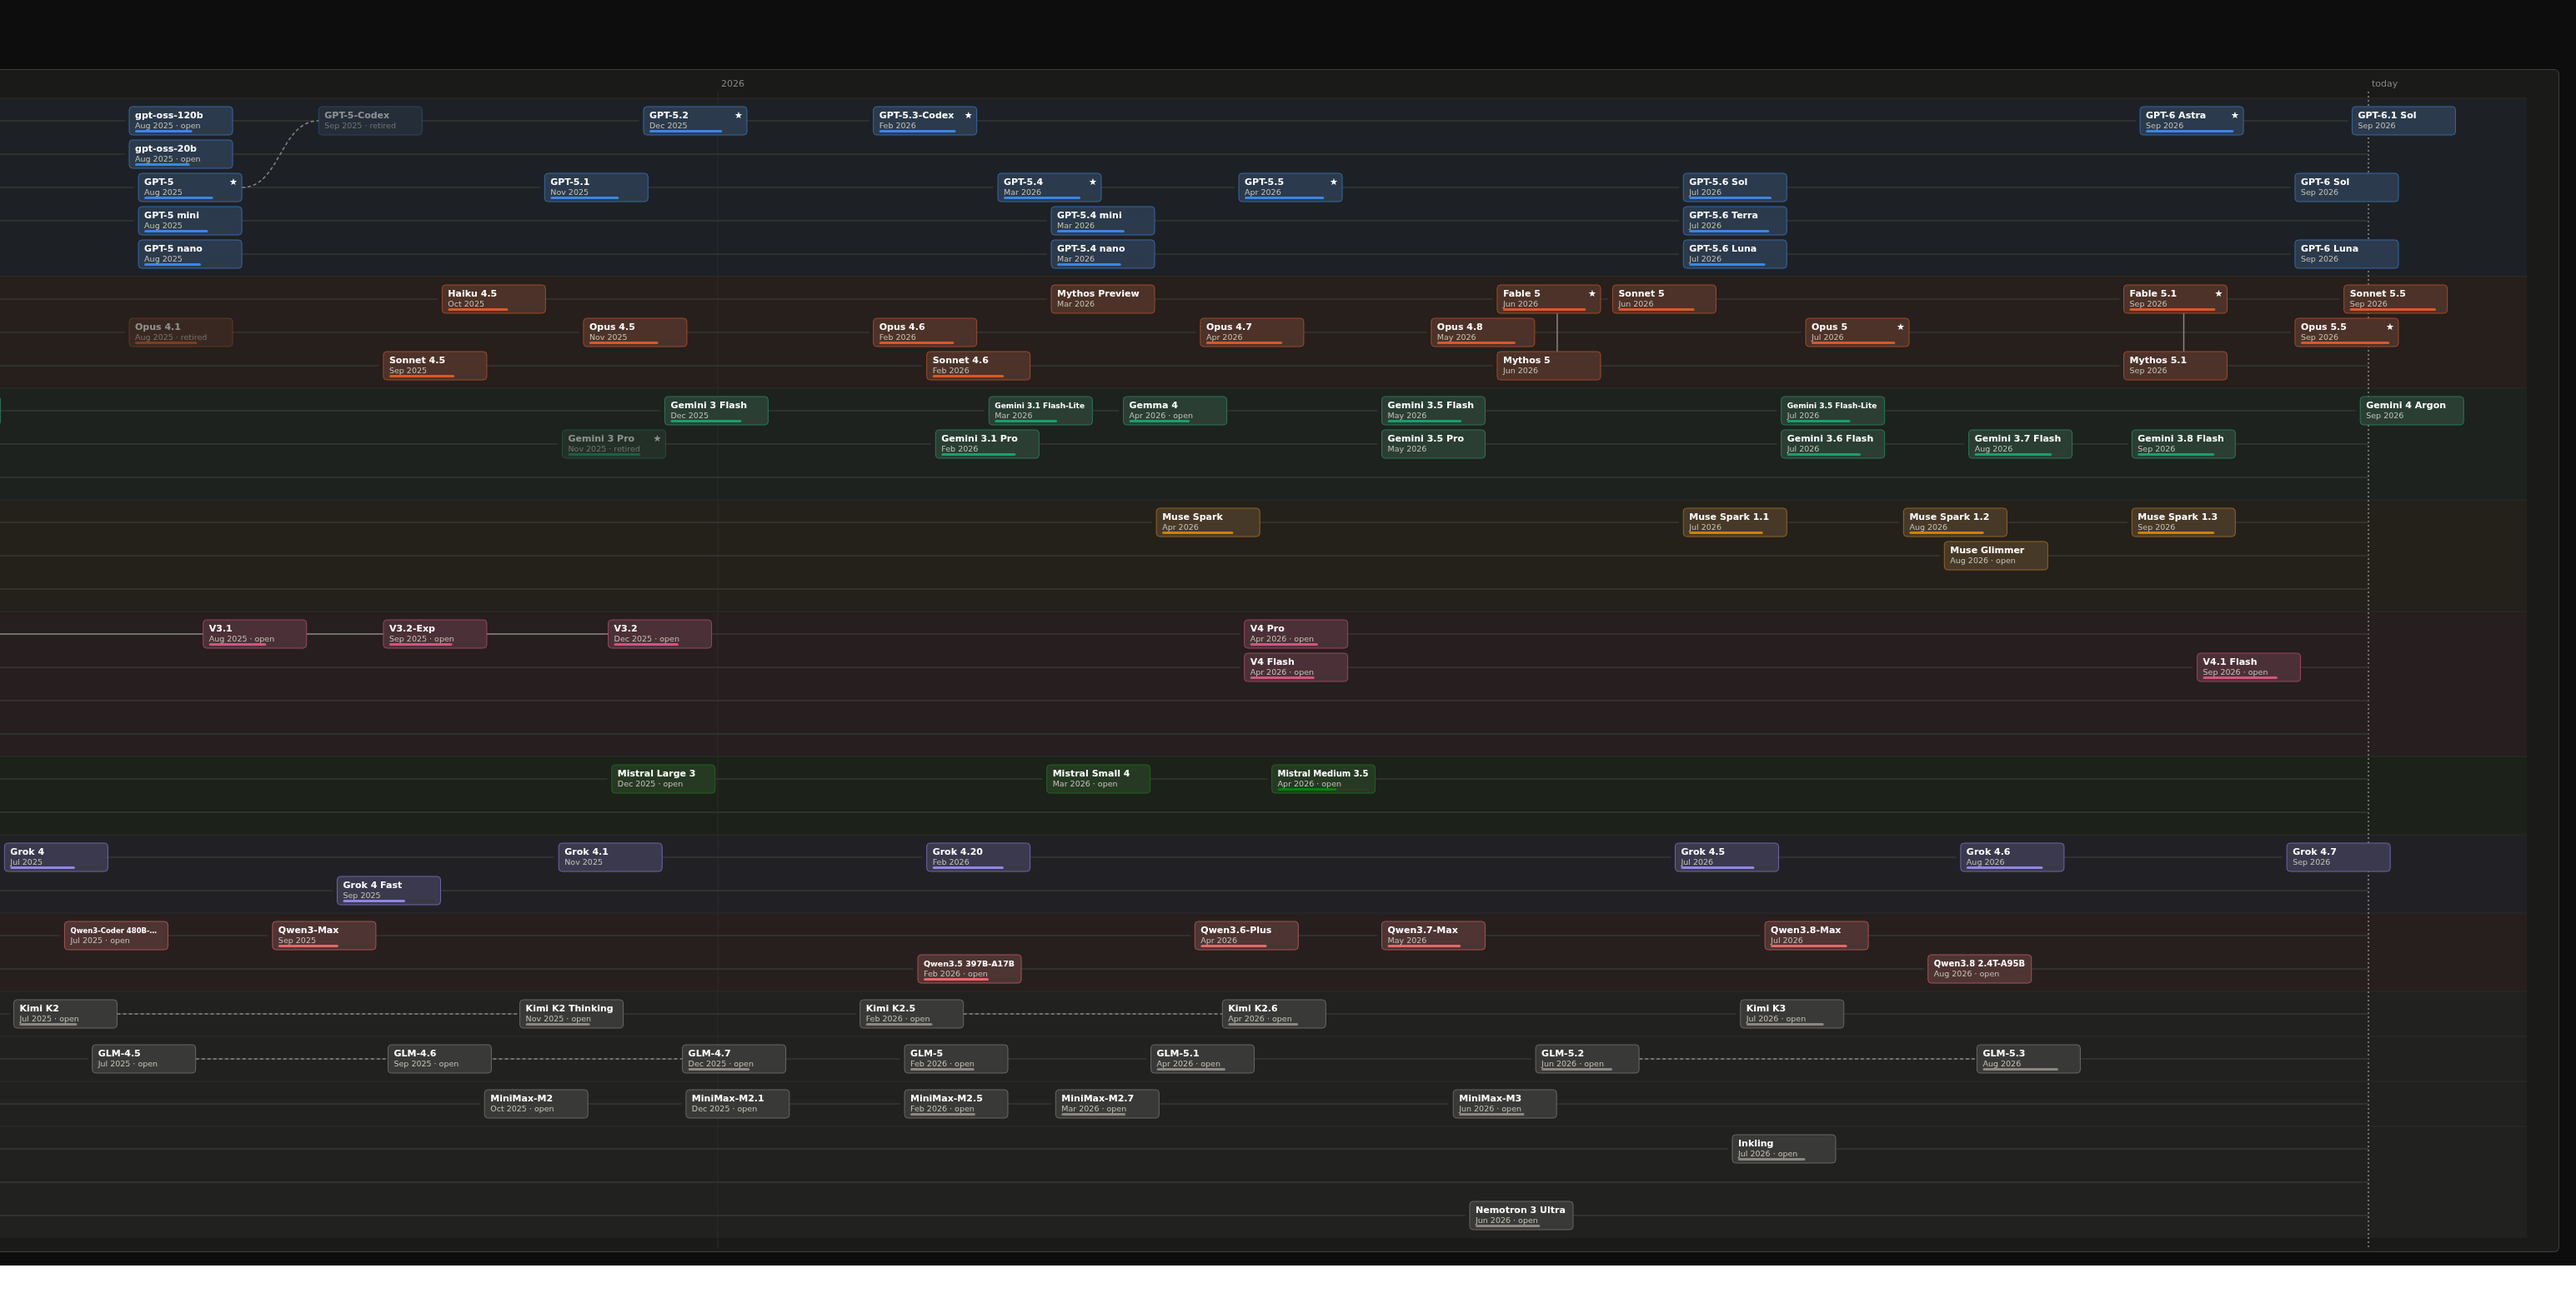
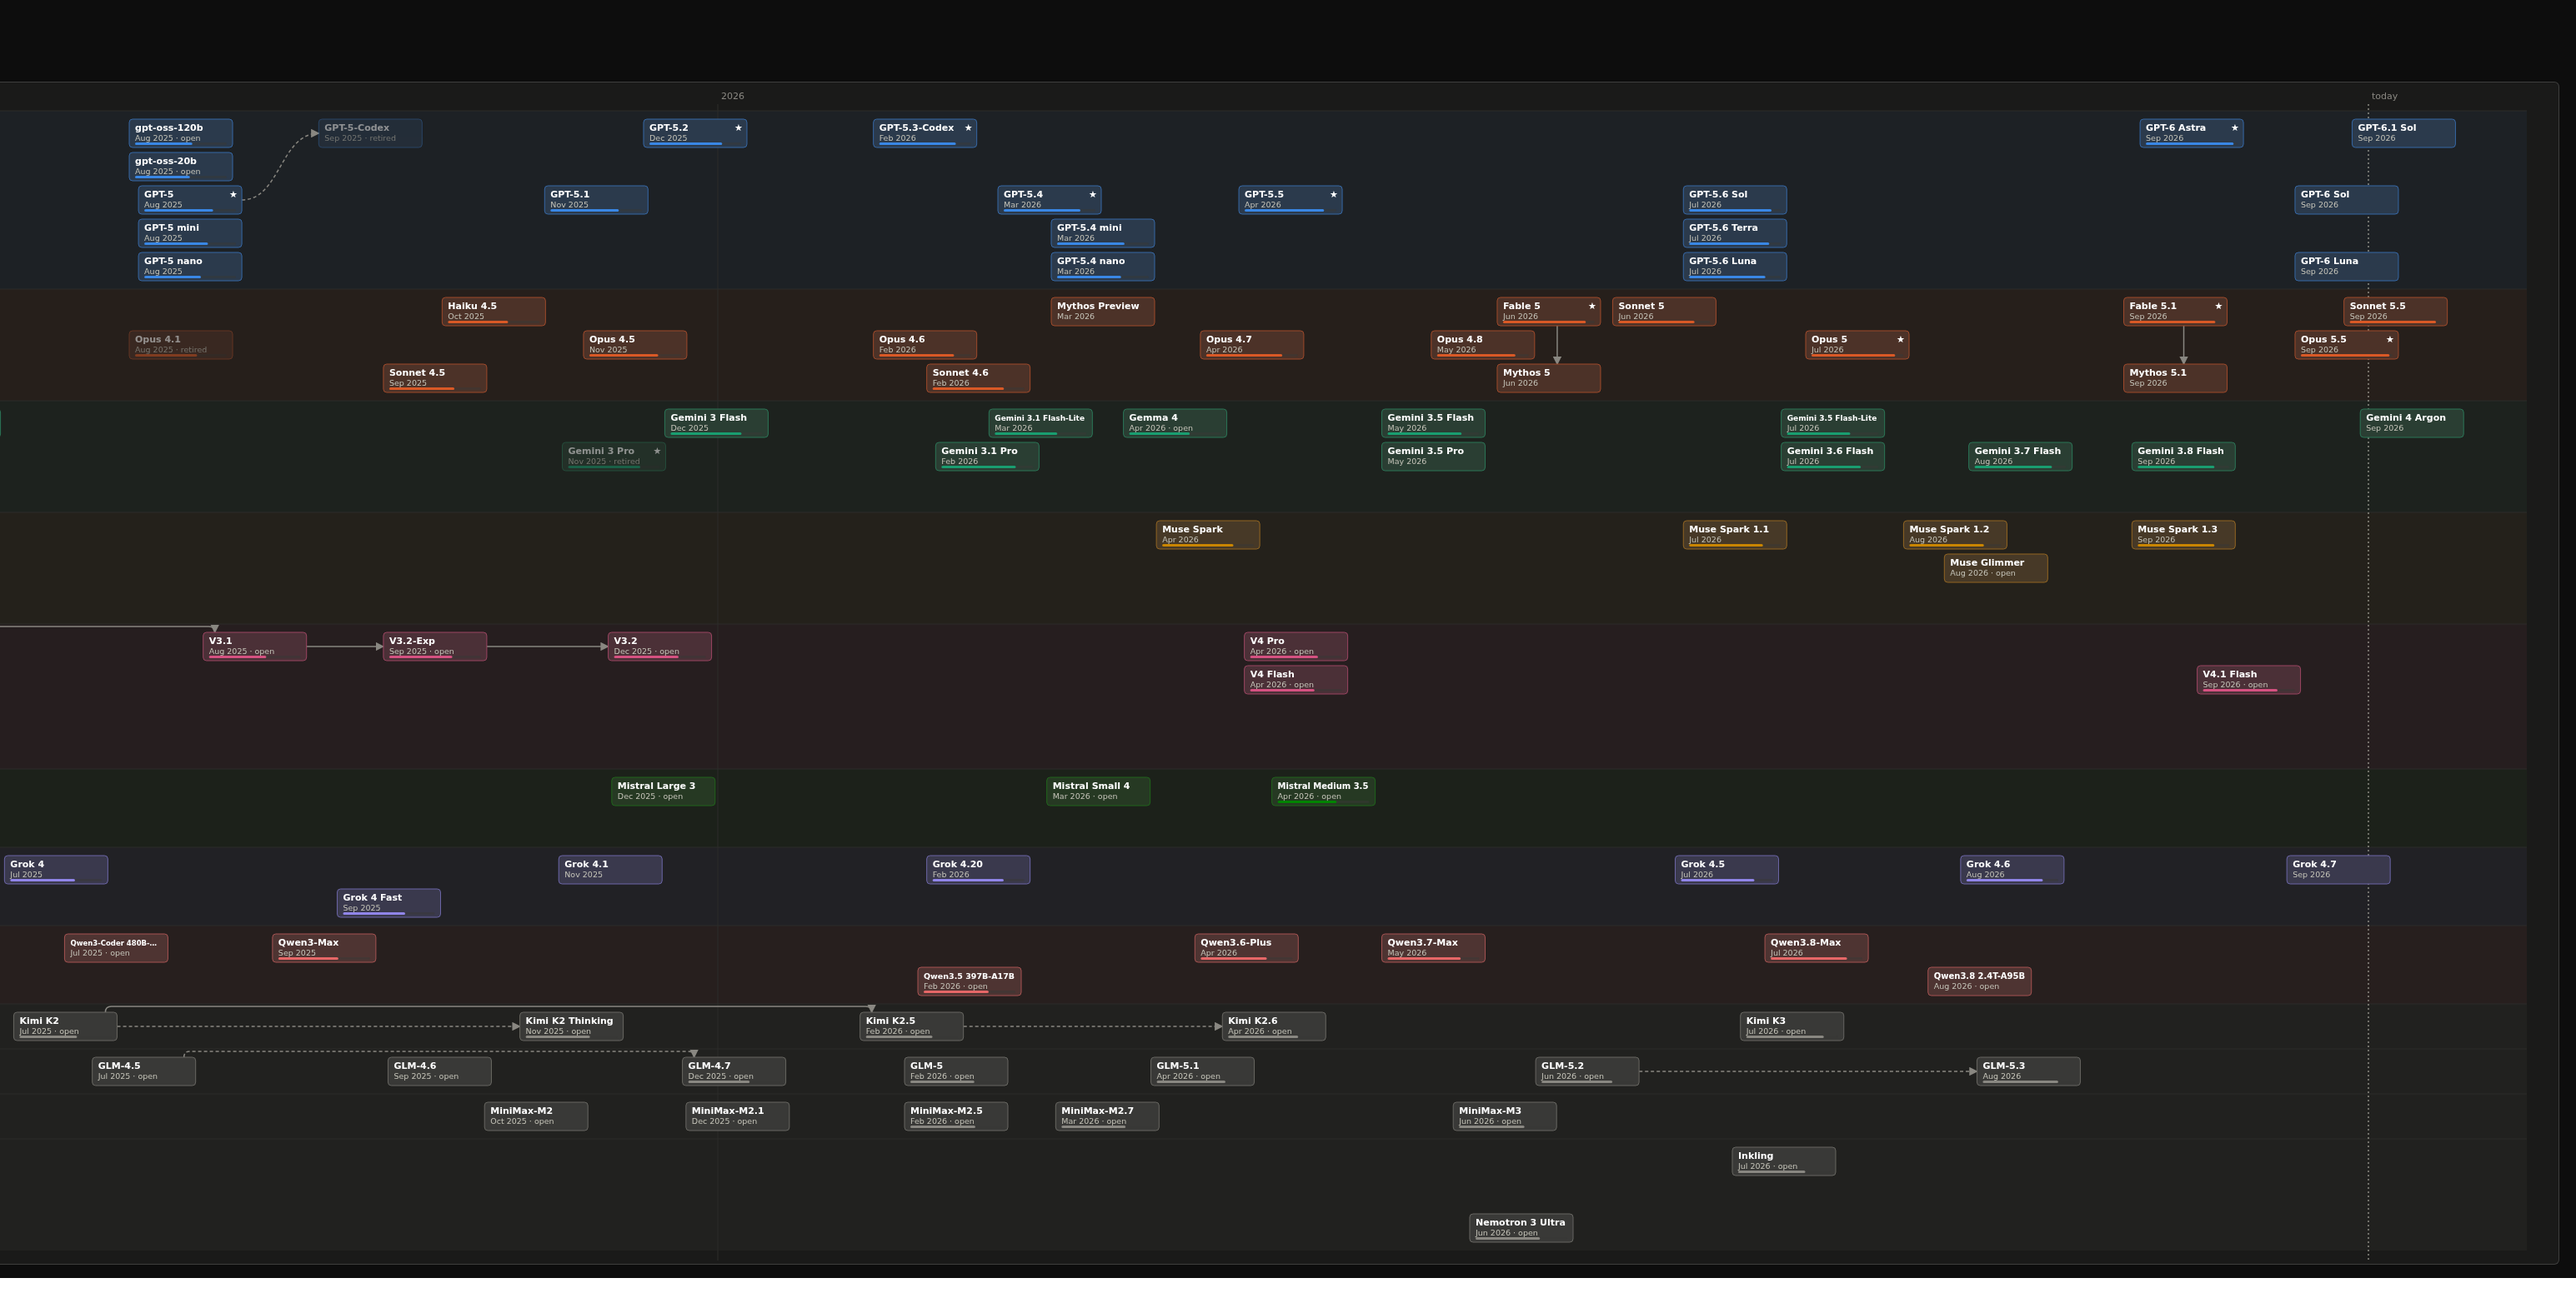
Add within-lab distillation edges; separate lineage from lifespans
- 9 new lineage edges from first-party sources: Gemini 1.5 Pro -> 1.5 Flash,
  Llama 4 Behemoth -> Maverick, Llama 3.1 405B -> 70B and 8B, DeepSeek V2 and
  Coder V2 -> V2.5, Kimi K2 -> K2.5; 2.5 Pro -> 2.5 Flash and Mistral Small
  3 -> 3.1 as likely (teacher or inheritance not named outright)
- Prototype: arrowheads on lineage, lifespans hidden behind a toggle (still
  shown on hover), same-row arrows routed above the row instead of behind boxes

diff --git a/prototype/boxes.html b/prototype/boxes.html
@@ -66,7 +66,8 @@ svg text { font-family: inherit; }
 .box .meter-bg { fill: var(--axis); opacity: .5; transition: opacity .3s; }
 .box .meter { fill: var(--lab); transition: opacity .3s; }
 
-.tail { stroke: var(--axis); stroke-width: 2; stroke-linecap: round; opacity: .7; transition: opacity .4s; }
+.tail { stroke: var(--axis); stroke-width: 2; stroke-linecap: round; opacity: 0; transition: opacity .4s; }
+svg.show-tails .tail { opacity: .7; }
 .tail.dep { stroke-dasharray: 3 3; }
 .tail.full { stroke: var(--text-secondary); opacity: 1; }
 .edge { fill: none; stroke: var(--muted); stroke-width: 1.5; transition: opacity .4s; }
@@ -86,7 +87,7 @@ svg text { font-family: inherit; }
 .axis-title { font-weight: 700; }
 
 /* capability mode */
-svg.cap .lane-band, svg.cap .lane-label, svg.cap .lane-count, svg.cap .tail { opacity: 0; }
+svg.cap .lane-band, svg.cap .lane-label, svg.cap .lane-count, svg.cap .tail, svg.cap.show-tails .tail { opacity: 0; }
 svg.cap .cap-only { opacity: 1; }
 svg.cap .box .meta, svg.cap .box .meter, svg.cap .box .meter-bg, svg.cap .box .star { opacity: 0; }
 svg.cap .box .name { opacity: 0; transform: translate(8px, -6px); font-size: 10.5px; }
@@ -97,7 +98,7 @@ svg.cap .edge { opacity: 0; }
 svg.cap .box.retired { opacity: .75; }
 
 /* hover: lineage focus */
-svg.focus .box, svg.focus .edge, svg.focus .tail { opacity: .15; }
+svg.focus .box, svg.focus .edge, svg.focus.show-tails .tail { opacity: .15; }
 svg.focus .box.lit, svg.focus .edge.lit { opacity: 1; }
 svg.focus .box.lit.self rect.body { stroke-width: 2.5; stroke: var(--text-primary); }
 svg.focus .tail.full { opacity: 1; }
@@ -112,11 +113,12 @@ svg.focus .box.retired:not(.lit), svg.focus .box.unscored:not(.lit) { opacity: .
   <p class="sub">Each box is a model, placed at its first public appearance; the bar along its bottom is its
     Epoch Capabilities Index (ECI) score, and ★ marks a model that topped every earlier model when it launched.
     Busy years get more horizontal room, so gridline spacing varies. Switch to <b>Capability</b> to lift every
-    model to its score. Hover any model to trace its lineage.</p>
+    model to its score. Arrows show documented lineage (fine-tuned or distilled from). Hover any model to trace its lineage and see its lifespan.</p>
   <div class="controls">
     <span>View</span>
     <button id="btn-lanes" aria-pressed="true">Lanes</button>
     <button id="btn-cap" aria-pressed="false">Capability</button>
+    <label style="margin-left:16px"><input type="checkbox" id="chk-tails"> Show lifespans</label>
   </div>
   <div class="legend" id="legend"></div>
   <div class="scroller"><svg id="chart"></svg></div>
@@ -260,11 +262,22 @@ const tailSegs = (p, clip) => {
   if (endX > depX + 2) segs.push({ x1: depX, x2: endX, y1: cy, y2: cy, class: 'tail dep' });
   return segs;
 };
+const defs = el('defs', {}, svg);
+for (const [id, color] of [['arrow', 'var(--muted)'], ['arrow-cross', 'var(--text-primary)']]) {
+  const mk = el('marker', { id, viewBox: '0 0 8 8', refX: 7, refY: 4, markerWidth: 7, markerHeight: 7, orient: 'auto-start-reverse' }, defs);
+  el('path', { d: 'M0,0 L8,4 L0,8 z', style: `fill: ${color}` }, mk);
+}
 const gTails = el('g', {}, svg), gEdges = el('g', {}, svg), gHover = el('g', {}, svg), gBoxes = el('g', {}, svg);
 for (const p of Object.values(placed)) for (const s of tailSegs(p, p.nextX - 6)) el('line', s, gTails);
 
 // edges: one path per layout, swapped with the view
 const lanePath = (a, b) => {
+  // same row with another box in between: arch over the row instead of running behind boxes
+  if (a.m.lab === b.m.lab && a.row === b.row && byRow[`${a.m.lab}|${a.row}`].some(p => p.x > a.x && p.x < b.x)) {
+    // run flat through the gap above the row: the lane padding for the top row, the row gap otherwise
+    const x1 = a.x + BOX_W - 14, x2 = b.x + 14, y = a.y, L = a.row === 0 ? LANE_PAD - 3 : ROW_GAP / 2;
+    return `M${x1},${y} Q${x1},${y - L} ${x1 + L},${y - L} H${x2 - L} Q${x2},${y - L} ${x2},${y}`;
+  }
   if (b.x - (a.x + BOX_W) >= 24) {
     const x1 = a.x + BOX_W, y1 = a.y + BOX_H / 2, x2 = b.x, y2 = b.y + BOX_H / 2, dx = Math.max(30, (x2 - x1) / 2);
     return `M${x1},${y1} C${x1 + dx},${y1} ${x2 - dx},${y2} ${x2},${y2}`;
@@ -285,7 +298,7 @@ for (const e of data.lineage) {
   if (!a || !b) continue;
   (parents[e.to] ||= []).push(e.from); (children[e.from] ||= []).push(e.to);
   const cls = ['edge', a.m.lab !== b.m.lab ? 'cross' : '', e.confidence === 'confirmed' ? '' : 'soft'].join(' ');
-  const path = el('path', { d: lanePath(a, b), class: cls, 'data-from': e.from, 'data-to': e.to }, gEdges);
+  const path = el('path', { d: lanePath(a, b), class: cls, 'data-from': e.from, 'data-to': e.to, 'marker-end': `url(#${a.m.lab !== b.m.lab ? 'arrow-cross' : 'arrow'})` }, gEdges);
   path._lane = lanePath(a, b); path._cap = capPath(a, b);
   el('title', {}, path).textContent = `${a.m.name} → ${b.m.name} (${e.type}, ${e.confidence})`;
 }
@@ -341,6 +354,7 @@ function layout() {
 }
 document.getElementById('btn-lanes').onclick = () => { mode = 'lanes'; layout(); };
 document.getElementById('btn-cap').onclick = () => { mode = 'cap'; layout(); };
+document.getElementById('chk-tails').onchange = e => svg.classList.toggle('show-tails', e.target.checked);
 layout();
 
 // ── hover: ancestors + descendants ──
@@ -361,7 +375,8 @@ document.getElementById('legend').innerHTML =
   data.labs.filter(l => sizes[l.id]).map(l => `<span><svg width="12" height="12"><rect width="12" height="12" rx="2" style="fill:${laneColor[l.id]}"/></svg>${l.name}</span>`).join('') +
   `<span><svg width="40" height="8"><rect y="2" width="40" height="3" rx="1.5" fill="var(--axis)" opacity=".5"/><rect y="2" width="26" height="3" rx="1.5" fill="var(--text-secondary)"/></svg>ECI score</span>` +
   `<span>★ new frontier at launch</span>` +
-  `<span><svg width="30" height="10"><path d="M2 5H28" class="edge cross"/></svg>derived from another lab</span>` +
+  `<span><svg width="30" height="10"><path d="M2 5H24" class="edge"/><path d="M22 2L28 5L22 8z" fill="var(--muted)"/></svg>derived from (same lab)</span>` +
+  `<span><svg width="30" height="10"><path d="M2 5H24" class="edge cross"/><path d="M22 2L28 5L22 8z" fill="var(--text-primary)"/></svg>derived from another lab</span>` +
   `<span><svg width="30" height="10"><path d="M2 5H28" class="edge soft"/></svg>lineage not yet verified</span>`;
 
 // #model-id focuses a model; ?view=cap opens the capability view

diff --git a/site/data.js b/site/data.js
@@ -6915,6 +6915,14 @@ window.TIMELINE_DATA = {
       "source": "https://www.anthropic.com/claude-fable-and-mythos-5-1"
     },
     {
+      "from": "deepseek-coder-v2",
+      "to": "deepseek-v2-5",
+      "type": "finetune",
+      "confidence": "confirmed",
+      "basis": "Model card: \"DeepSeek-V2.5 is an upgraded version that combines DeepSeek-V2-Chat and DeepSeek-Coder-V2-Instruct.\"",
+      "source": "https://huggingface.co/deepseek-ai/DeepSeek-V2.5"
+    },
+    {
       "from": "deepseek-r1",
       "to": "deepseek-r1-distill-llama-70b",
       "type": "distill",
@@ -6937,6 +6945,14 @@ window.TIMELINE_DATA = {
       "confidence": "likely",
       "basis": "Epoch AI records \"DeepSeek-V2 (MoE-236B)\" as the base model of DeepSeek-Coder-V2 236B. Not yet checked against the linked source.",
       "source": "https://github.com/deepseek-ai/DeepSeek-Coder-V2"
+    },
+    {
+      "from": "deepseek-v2",
+      "to": "deepseek-v2-5",
+      "type": "finetune",
+      "confidence": "confirmed",
+      "basis": "Model card: \"DeepSeek-V2.5 is an upgraded version that combines DeepSeek-V2-Chat and DeepSeek-Coder-V2-Instruct.\"",
+      "source": "https://huggingface.co/deepseek-ai/DeepSeek-V2.5"
     },
     {
       "from": "deepseek-v3",
@@ -6977,6 +6993,22 @@ window.TIMELINE_DATA = {
       "confidence": "confirmed",
       "basis": "Model card base_model: deepseek-ai/DeepSeek-V3.2-Exp-Base.",
       "source": "https://huggingface.co/deepseek-ai/DeepSeek-V3.2"
+    },
+    {
+      "from": "gemini-1-5-pro",
+      "to": "gemini-1-5-flash",
+      "type": "distill",
+      "confidence": "confirmed",
+      "basis": "\"It's been trained by 1.5 Pro through a process called 'distillation'\".",
+      "source": "https://blog.google/innovation-and-ai/products/google-gemini-update-flash-ai-assistant-io-2024/"
+    },
+    {
+      "from": "gemini-2-5-pro",
+      "to": "gemini-2-5-flash",
+      "type": "distill",
+      "confidence": "likely",
+      "basis": "Gemini 2.5 report: \"The smaller models in the Gemini 2.5 series — Flash size and below — use distillation, as was done in the Gemini 1.5 series.\" The teacher is not named; 2.5 Pro is the inferred teacher.",
+      "source": "https://arxiv.org/abs/2507.06261"
     },
     {
       "from": "glm-4-5",
@@ -7020,6 +7052,14 @@ window.TIMELINE_DATA = {
     },
     {
       "from": "kimi-k2",
+      "to": "kimi-k2-5",
+      "type": "finetune",
+      "confidence": "confirmed",
+      "basis": "Model card: \"built through continual pretraining on approximately 15 trillion mixed visual and text tokens atop Kimi-K2-Base.\"",
+      "source": "https://huggingface.co/moonshotai/Kimi-K2.5"
+    },
+    {
+      "from": "kimi-k2",
       "to": "kimi-k2-thinking",
       "type": "finetune",
       "confidence": "likely",
@@ -7041,6 +7081,22 @@ window.TIMELINE_DATA = {
       "confidence": "likely",
       "basis": "Epoch AI records \"Llama 2-34B\" as the base model of Code Llama-34B. Not yet checked against the linked source.",
       "source": "https://ai.meta.com/research/publications/code-llama-open-foundation-models-for-code/"
+    },
+    {
+      "from": "llama-3-1-405b",
+      "to": "llama-3-1-70b",
+      "type": "distill",
+      "confidence": "confirmed",
+      "basis": "\"We also used the 405B parameter model to improve the post-training quality of our smaller models.\"",
+      "source": "https://ai.meta.com/blog/meta-llama-3-1/"
+    },
+    {
+      "from": "llama-3-1-405b",
+      "to": "llama-3-1-8b",
+      "type": "distill",
+      "confidence": "confirmed",
+      "basis": "\"We also used the 405B parameter model to improve the post-training quality of our smaller models.\"",
+      "source": "https://ai.meta.com/blog/meta-llama-3-1/"
     },
     {
       "from": "llama-3-1-70b",
@@ -7067,6 +7123,14 @@ window.TIMELINE_DATA = {
       "source": "https://huggingface.co/deepseek-ai/DeepSeek-R1-Distill-Llama-70B"
     },
     {
+      "from": "llama-4-behemoth",
+      "to": "llama-4-maverick",
+      "type": "distill",
+      "confidence": "confirmed",
+      "basis": "\"We codistilled the Llama 4 Maverick model from Llama 4 Behemoth as a teacher model\".",
+      "source": "https://ai.meta.com/blog/llama-4-multimodal-intelligence/"
+    },
+    {
       "from": "minimax-text-01",
       "to": "minimax-m1",
       "type": "finetune",
@@ -7081,6 +7145,14 @@ window.TIMELINE_DATA = {
       "confidence": "likely",
       "basis": "Epoch AI records \"Mistral Medium 3\" as the base model of Magistral Medium 1.1. Not yet checked against the linked source.",
       "source": "https://mistral.ai/news/magistral"
+    },
+    {
+      "from": "mistral-small-3",
+      "to": "mistral-small-3-1",
+      "type": "finetune",
+      "confidence": "likely",
+      "basis": "\"Building on Mistral Small 3, this new model comes with improved text performance, multimodal understanding, and an expanded context window\". Weight inheritance is implied, not stated.",
+      "source": "https://mistral.ai/news/mistral-small-3-1"
     },
     {
       "from": "mistral-small-3-1",
